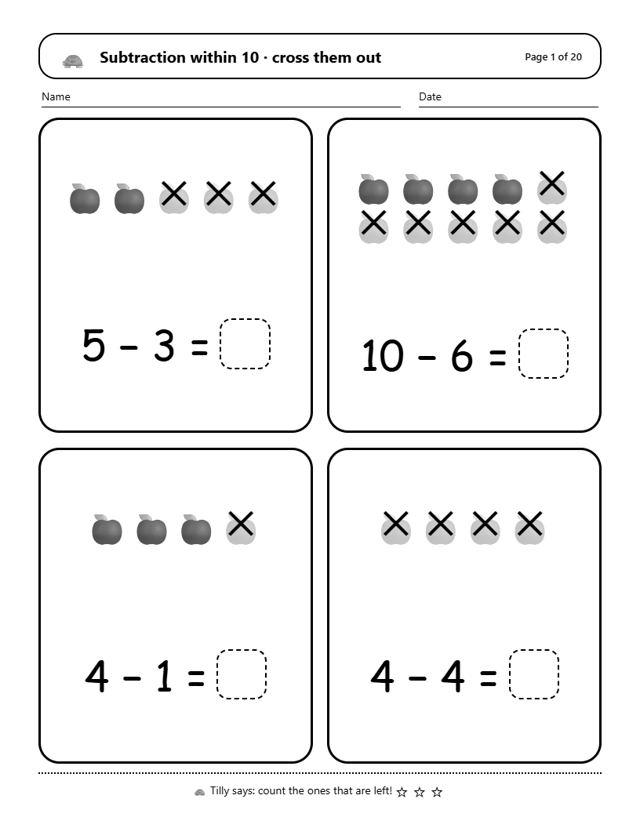
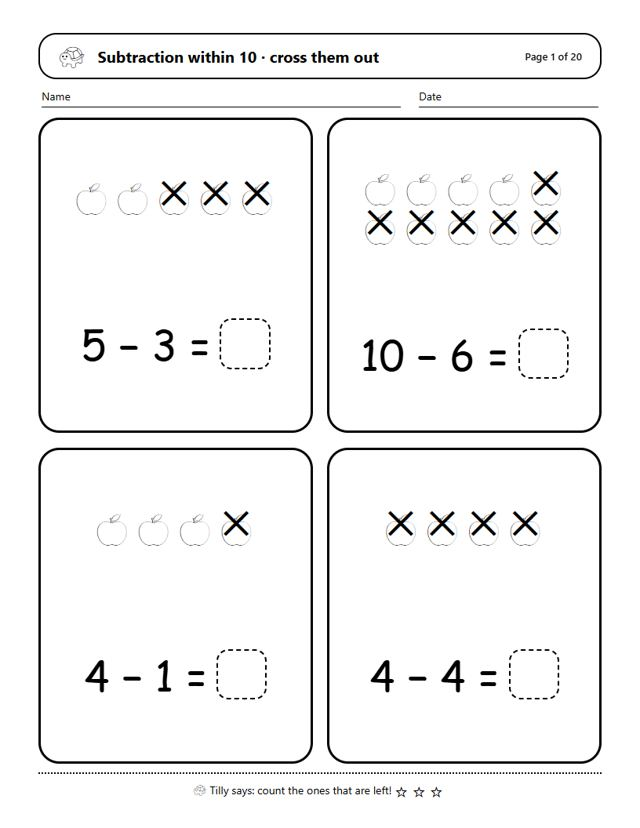
Black-and-white editions now use outline pictures; sampler included

diff --git a/free-decodable-reading-sampler/index.html b/free-decodable-reading-sampler/index.html
@@ -38,13 +38,13 @@ footer{padding:26px 0 40px;text-align:center;color:var(--soft);font-size:15px}
 @media (max-width:560px){.buy,.buy:link,.buy:visited{font-size:20px;padding:14px 18px 14px 24px}.price{right:-2px}}</style></head><body>
 <nav><div class="wrap"><a class="logo" href="../"><span class="word"><span style="color:#e0527a">S</span><span style="color:#ef8a2b">o</span><span style="color:#f2b705">u</span><span style="color:#2f9e63">n</span><span style="color:#2f80d0">d</span></span> <span class="word"><span style="color:#e0527a">I</span><span style="color:#ef8a2b">t</span></span> <span class="word"><span style="color:#2f9e63">O</span><span style="color:#2f80d0">u</span><span style="color:#8a5cd0">t</span></span></a><a href="../#printables">All printables</a><a href="../free-decodable-reading-sampler/">Free sampler</a></div></nav>
 <header class="hero"><div class="wrap cols"><div class="txt"><h1><span class="word"><span style="color:#e0527a">F</span><span style="color:#ef8a2b">r</span><span style="color:#f2b705">e</span><span style="color:#2f9e63">e</span></span> <span class="word"><span style="color:#8a5cd0">D</span><span style="color:#e0527a">e</span><span style="color:#ef8a2b">c</span><span style="color:#f2b705">o</span><span style="color:#2f9e63">d</span><span style="color:#2f80d0">a</span><span style="color:#8a5cd0">b</span><span style="color:#e0527a">l</span><span style="color:#ef8a2b">e</span></span> <span class="word"><span style="color:#2f9e63">R</span><span style="color:#2f80d0">e</span><span style="color:#8a5cd0">a</span><span style="color:#e0527a">d</span><span style="color:#ef8a2b">i</span><span style="color:#f2b705">n</span><span style="color:#2f9e63">g</span></span> <span class="word"><span style="color:#8a5cd0">S</span><span style="color:#e0527a">a</span><span style="color:#ef8a2b">m</span><span style="color:#f2b705">p</span><span style="color:#2f9e63">l</span><span style="color:#2f80d0">e</span><span style="color:#8a5cd0">r</span></span></h1><p class="tag">Free printable CVC words, sentences and stories</p><p class="lead">The whole first step of learning to read, free: words, word chains, sentences, stories and two reading passages with questions. Every word uses only the sounds s a t p i n m d.</p><a class="buy" href="https://julianspark478.gumroad.com/l/sound-it-out-free">Download free <b>FREE</b></a>
-<ul class="ticks"><li>9 printable pages</li><li>PDF, US Letter and A4</li><li>Ages 4 to 6 · Kindergarten</li><li>Print as often as you like</li></ul></div>
+<ul class="ticks"><li>9 printable pages</li><li>Colour and black-and-white PDFs, US Letter and A4</li><li>Ages 4 to 6 · Kindergarten</li><li>Print as often as you like</li></ul></div>
 <div class="shot"><img src="../img/free-decodable-reading-sampler-2.jpg" alt="Free Decodable Reading Sampler sample page" width="560" height="725"></div></div></header>
 <section><div class="wrap"><div class="bubble"><p class="big">Does your child know a few letter sounds, but get stuck on “easy” books?</p><p>Most beginner books slip in words a child has not been taught to sound out, so the child guesses. These pages only use eight letter-sounds, s a t p i n m d, plus the word “the”. Your child can read every word.</p><div class="sounds" aria-label="d, u, ck makes duck"><span style="background:#2f80d0">d</span><span style="background:#ef8a2b">u</span><span style="background:#8a5cd0">ck</span><i>→</i><em>duck</em></div></div></div></section>
 <section style="padding-top:0"><div class="wrap"><h2>What you get</h2><ul class="get"><li style="background:#fff3c4;border-color:#f2b705">A one-page guide for the grown-up</li><li style="background:#dff3ff;border-color:#2f9e63">Listening games and CVC word cards</li><li style="background:#e4f7e4;border-color:#2f80d0">Word chains and phrases</li><li style="background:#ffe3ee;border-color:#8a5cd0">10 decodable sentences</li><li style="background:#efe7fb;border-color:#e0527a">Two short stories to read and draw</li><li style="background:#ffe9d2;border-color:#ef8a2b">Two reading passages with tick-or-cross questions</li></ul></div></section>
-<section class="band"><div class="wrap"><h2>Look inside</h2><div class="gal"><img src="../img/free-decodable-reading-sampler-1.jpg" alt="Free Decodable Reading Sampler: sample page 1" width="560" height="725"><img src="../img/free-decodable-reading-sampler-2.jpg" alt="Free Decodable Reading Sampler: sample page 2" width="560" height="725"><img src="../img/free-decodable-reading-sampler-3.jpg" alt="Free Decodable Reading Sampler: sample page 3" width="560" height="725"><img src="../img/free-decodable-reading-sampler-4.jpg" alt="Free Decodable Reading Sampler: sample page 4" width="560" height="725"></div></div></section>
+<section class="band"><div class="wrap"><h2>Look inside</h2><p style="text-align:center;margin:-14px 0 24px;font-weight:700">Every page comes in full colour and in black and white with outline pictures to colour in.</p><div class="gal"><img src="../img/free-decodable-reading-sampler-1.jpg" alt="Free Decodable Reading Sampler: sample page 1" width="560" height="725"><img src="../img/free-decodable-reading-sampler-2.jpg" alt="Free Decodable Reading Sampler: sample page 2" width="560" height="725"><img src="../img/free-decodable-reading-sampler-3.jpg" alt="Free Decodable Reading Sampler: sample page 3" width="560" height="725"><img src="../img/free-decodable-reading-sampler-4.jpg" alt="Free Decodable Reading Sampler: sample page 4" width="560" height="725"></div></div></section>
 <section><div class="wrap"><div class="who"><h2>Who it is for</h2>Children who are just starting to blend sounds into words, usually ages 4 to 6. Good for parents, tutors and teachers who want to try decodable reading before buying anything.</div></div></section>
-<section class="band"><div class="wrap"><h2>Good questions</h2><details><summary>Is it really free?</summary><p>Yes. On the download page the price is $0. You can type 0 and download it.</p></details><details><summary>What comes after this?</summary><p>The two full books carry on through five more steps of sounds: Sound It Out (words, sentences and stories) and Read It, Get It (24 passages with questions).</p></details><details><summary>What exactly do I download?</summary><p>Two PDF files of the same 9 pages: one sized for US Letter paper and one for A4.</p></details><details><summary>How do I get it?</summary><p>The button takes you to our Gumroad download page. The files are yours straight away.</p></details><details><summary>Can I use it with my class?</summary><p>Yes. Print as often as you like for your own children or your own class.</p></details></div></section>
+<section class="band"><div class="wrap"><h2>Good questions</h2><details><summary>Is it really free?</summary><p>Yes. On the download page the price is $0. You can type 0 and download it.</p></details><details><summary>What comes after this?</summary><p>The two full books carry on through five more steps of sounds: Sound It Out (words, sentences and stories) and Read It, Get It (24 passages with questions).</p></details><details><summary>What exactly do I download?</summary><p>The same 9 pages as PDF files in full colour and in ink-saving black and white, each sized for US Letter paper and for A4. Print whichever suits you.</p></details><details><summary>How do I get it?</summary><p>The button takes you to our Gumroad download page. The files are yours straight away.</p></details><details><summary>Can I use it with my class?</summary><p>Yes. Print as often as you like for your own children or your own class.</p></details></div></section>
 <section class="final"><div class="wrap"><h2>Print it today, free</h2><a class="buy" href="https://julianspark478.gumroad.com/l/sound-it-out-free">Download free <b>FREE</b></a></div></section>
 <section><div class="wrap"><h2>More printables</h2><div class="grid"><a class="card" href="../sound-it-out-decodable-phonics-practice/" style="background:#dff3ff;border-color:#2f80d0"><span class="price" style="background:#2f80d0">$5</span>
 <img src="../img/sound-it-out-decodable-phonics-practice-2.jpg" alt="Sample page from Sound It Out" width="560" height="725"><h3>Sound It Out</h3><small>27 pages · Ages 4 to 7</small><p>Decodable phonics reading practice: words, sentences and stories.</p><span class="go" style="background:#2f80d0">See inside</span></a>

diff --git a/sound-it-out-decodable-phonics-practice/index.html b/sound-it-out-decodable-phonics-practice/index.html
@@ -42,7 +42,7 @@ footer{padding:26px 0 40px;text-align:center;color:var(--soft);font-size:15px}
 <div class="shot"><img src="../img/sound-it-out-decodable-phonics-practice-2.jpg" alt="Sound It Out sample page" width="560" height="725"></div></div></header>
 <section><div class="wrap"><div class="bubble"><p class="big">Most beginner sentences cheat.</p><p>“The duck is in the pond” looks simple. But a child who has not been taught that <b>ck</b> is one sound cannot read “duck”. That child can only guess, and every guess teaches a child that reading is guessing. In this book nothing sneaks in.</p><div class="sounds" aria-label="d, u, ck makes duck"><span style="background:#2f80d0">d</span><span style="background:#ef8a2b">u</span><span style="background:#8a5cd0">ck</span><i>→</i><em>duck</em></div></div></div></section>
 <section style="padding-top:0"><div class="wrap"><h2>What you get</h2><ul class="get"><li style="background:#fff3c4;border-color:#f2b705">Listening games: you say the sounds, your child says the word</li><li style="background:#dff3ff;border-color:#2f9e63">Word cards with the sounds marked under each word</li><li style="background:#e4f7e4;border-color:#2f80d0">Word chains: tin, pin, pit, sit</li><li style="background:#ffe3ee;border-color:#8a5cd0">Phrases and 10 sentences for every step</li><li style="background:#efe7fb;border-color:#e0527a">12 short stories with questions and a box to draw</li><li style="background:#ffe9d2;border-color:#ef8a2b">A reading ladder star chart and a guide for you</li></ul></div></section>
-<section class="band"><div class="wrap"><h2>Look inside</h2><p style="text-align:center;margin:-14px 0 24px;font-weight:700">Every page comes in full colour and in ink-saving black and white.</p><div class="gal"><img src="../img/sound-it-out-decodable-phonics-practice-1.jpg" alt="Sound It Out: sample page 1" width="560" height="725"><img src="../img/sound-it-out-decodable-phonics-practice-2.jpg" alt="Sound It Out: sample page 2" width="560" height="725"><img src="../img/sound-it-out-decodable-phonics-practice-3.jpg" alt="Sound It Out: sample page 3" width="560" height="725"><img src="../img/sound-it-out-decodable-phonics-practice-4.jpg" alt="Sound It Out: sample page 4" width="560" height="725"></div></div></section>
+<section class="band"><div class="wrap"><h2>Look inside</h2><p style="text-align:center;margin:-14px 0 24px;font-weight:700">Every page comes in full colour and in black and white with outline pictures to colour in.</p><div class="gal"><img src="../img/sound-it-out-decodable-phonics-practice-1.jpg" alt="Sound It Out: sample page 1" width="560" height="725"><img src="../img/sound-it-out-decodable-phonics-practice-2.jpg" alt="Sound It Out: sample page 2" width="560" height="725"><img src="../img/sound-it-out-decodable-phonics-practice-3.jpg" alt="Sound It Out: sample page 3" width="560" height="725"><img src="../img/sound-it-out-decodable-phonics-practice-4.jpg" alt="Sound It Out: sample page 4" width="560" height="725"></div></div></section>
 <section><div class="wrap"><div class="who"><h2>Who it is for</h2>Parents, tutors and teachers of children who are starting to blend sounds, usually ages 4 to 7, and older children who need to go back and build the skill properly.</div></div></section>
 <section class="band"><div class="wrap"><h2>Good questions</h2><details><summary>Why are there no pictures beside the words?</summary><p>A picture of a dog next to “dog” lets a child guess from the picture. Here your child reads first and draws the story afterwards.</p></details><details><summary>Which phonics order does it follow?</summary><p>It starts with s a t p i n m d and adds a few sounds at each step: g o c k, then ck e u r, then h b f ff l ll ss, then j v w x, then y z zz qu. Find the last step where your child knows every sound and start there.</p></details><details><summary>What exactly do I download?</summary><p>The same 27 pages as PDF files in full colour and in ink-saving black and white, each sized for US Letter paper and for A4. Print whichever suits you.</p></details><details><summary>How do I get it?</summary><p>The button takes you to a secure checkout run by Gumroad. As soon as you pay you can download the files, and a link is emailed to you as well.</p></details><details><summary>Can I use it with my class?</summary><p>Yes. Print as often as you like for your own children or your own class.</p></details></div></section>
 <section class="final"><div class="wrap"><h2>Print it today</h2><a class="buy" href="https://julianspark478.gumroad.com/l/iajzf?wanted=true">Buy and download <b>$5</b></a><p>Not sure yet? <a href="../free-decodable-reading-sampler/">Try the free 9-page sampler first</a></p></div></section>

diff --git a/decodable-reading-passages-with-questions/index.html b/decodable-reading-passages-with-questions/index.html
@@ -42,7 +42,7 @@ footer{padding:26px 0 40px;text-align:center;color:var(--soft);font-size:15px}
 <div class="shot"><img src="../img/decodable-reading-passages-with-questions-2.jpg" alt="Read It, Get It sample page" width="560" height="725"></div></div></header>
 <section><div class="wrap"><div class="bubble"><p class="big">Can your child sound out words, but freeze at a real story?</p><p>Most “easy” passages are not easy. They slip in words a beginner has not been taught to read, so the child guesses. These 24 one-page stories only use sounds your child already knows, plus one sight word: “the”.</p><div class="sounds" aria-label="d, u, ck makes duck"><span style="background:#2f80d0">d</span><span style="background:#ef8a2b">u</span><span style="background:#8a5cd0">ck</span><i>→</i><em>duck</em></div></div></div></section>
 <section style="padding-top:0"><div class="wrap"><h2>What you get</h2><ul class="get"><li style="background:#fff3c4;border-color:#f2b705">24 one-page decodable passages, four for each step</li><li style="background:#dff3ff;border-color:#2f9e63">A read-it-three-times star tracker on every page</li><li style="background:#e4f7e4;border-color:#2f80d0">Three tick-or-cross questions per passage, decodable too</li><li style="background:#ffe3ee;border-color:#8a5cd0">Two talk-about-it questions for you to read aloud</li><li style="background:#efe7fb;border-color:#e0527a">A box to draw the story</li><li style="background:#ffe9d2;border-color:#ef8a2b">An answer key and reading record</li></ul></div></section>
-<section class="band"><div class="wrap"><h2>Look inside</h2><p style="text-align:center;margin:-14px 0 24px;font-weight:700">Every page comes in full colour and in ink-saving black and white.</p><div class="gal"><img src="../img/decodable-reading-passages-with-questions-1.jpg" alt="Read It, Get It: sample page 1" width="560" height="725"><img src="../img/decodable-reading-passages-with-questions-2.jpg" alt="Read It, Get It: sample page 2" width="560" height="725"><img src="../img/decodable-reading-passages-with-questions-3.jpg" alt="Read It, Get It: sample page 3" width="560" height="725"><img src="../img/decodable-reading-passages-with-questions-4.jpg" alt="Read It, Get It: sample page 4" width="560" height="725"></div></div></section>
+<section class="band"><div class="wrap"><h2>Look inside</h2><p style="text-align:center;margin:-14px 0 24px;font-weight:700">Every page comes in full colour and in black and white with outline pictures to colour in.</p><div class="gal"><img src="../img/decodable-reading-passages-with-questions-1.jpg" alt="Read It, Get It: sample page 1" width="560" height="725"><img src="../img/decodable-reading-passages-with-questions-2.jpg" alt="Read It, Get It: sample page 2" width="560" height="725"><img src="../img/decodable-reading-passages-with-questions-3.jpg" alt="Read It, Get It: sample page 3" width="560" height="725"><img src="../img/decodable-reading-passages-with-questions-4.jpg" alt="Read It, Get It: sample page 4" width="560" height="725"></div></div></section>
 <section><div class="wrap"><div class="who"><h2>Who it is for</h2>Kindergarten and first grade readers, usually ages 4 to 7, and older children who need to go back and build blending properly. Works well for home, small groups, homework and reading intervention.</div></div></section>
 <section class="band"><div class="wrap"><h2>Good questions</h2><details><summary>Why are there no pictures beside the story?</summary><p>A picture lets a child guess the words. Here your child reads first and draws afterwards.</p></details><details><summary>How do the passages get harder?</summary><p>Four passages for each step of sounds, from s a t p i n m d up to y z zz qu. The stories get a little longer as the sounds grow.</p></details><details><summary>What exactly do I download?</summary><p>The same 27 pages as PDF files in full colour and in ink-saving black and white, each sized for US Letter paper and for A4. Print whichever suits you.</p></details><details><summary>How do I get it?</summary><p>The button takes you to a secure checkout run by Gumroad. As soon as you pay you can download the files, and a link is emailed to you as well.</p></details><details><summary>Can I use it with my class?</summary><p>Yes. Print as often as you like for your own children or your own class.</p></details></div></section>
 <section class="final"><div class="wrap"><h2>Print it today</h2><a class="buy" href="https://julianspark478.gumroad.com/l/jybjvj?wanted=true">Buy and download <b>$5</b></a><p>Not sure yet? <a href="../free-decodable-reading-sampler/">Try the free 9-page sampler first</a></p></div></section>

diff --git a/number-tracing-and-counting-1-to-20/index.html b/number-tracing-and-counting-1-to-20/index.html
@@ -42,7 +42,7 @@ footer{padding:26px 0 40px;text-align:center;color:var(--soft);font-size:15px}
 <div class="shot"><img src="../img/number-tracing-and-counting-1-to-20-2.jpg" alt="Numbers 1 to 20 sample page" width="560" height="725"></div></div></header>
 <section><div class="wrap"><div class="bubble"><p class="big">Counting to 20 is more than saying the words.</p><p>A child needs to see how many a number is, not just recite it. Every page shows the number on a ten frame, gives real things to count, then moves to tracing, writing and finding the missing number.</p></div></div></section>
 <section style="padding-top:0"><div class="wrap"><h2>What you get</h2><ul class="get"><li style="background:#fff3c4;border-color:#f2b705">20 number pages, 1 to 20</li><li style="background:#dff3ff;border-color:#2f9e63">The number, its word and a ten frame</li><li style="background:#e4f7e4;border-color:#2f80d0">Things to count on every page</li><li style="background:#ffe3ee;border-color:#8a5cd0">Trace the number, then write your own</li><li style="background:#efe7fb;border-color:#e0527a">A missing-number row on every page</li><li style="background:#ffe9d2;border-color:#ef8a2b">A guide for the grown-up</li></ul></div></section>
-<section class="band"><div class="wrap"><h2>Look inside</h2><p style="text-align:center;margin:-14px 0 24px;font-weight:700">Every page comes in full colour and in ink-saving black and white.</p><div class="gal"><img src="../img/number-tracing-and-counting-1-to-20-1.jpg" alt="Numbers 1 to 20: sample page 1" width="560" height="725"><img src="../img/number-tracing-and-counting-1-to-20-2.jpg" alt="Numbers 1 to 20: sample page 2" width="560" height="725"><img src="../img/number-tracing-and-counting-1-to-20-3.jpg" alt="Numbers 1 to 20: sample page 3" width="560" height="725"><img src="../img/number-tracing-and-counting-1-to-20-4.jpg" alt="Numbers 1 to 20: sample page 4" width="560" height="725"></div></div></section>
+<section class="band"><div class="wrap"><h2>Look inside</h2><p style="text-align:center;margin:-14px 0 24px;font-weight:700">Every page comes in full colour and in black and white with outline pictures to colour in.</p><div class="gal"><img src="../img/number-tracing-and-counting-1-to-20-1.jpg" alt="Numbers 1 to 20: sample page 1" width="560" height="725"><img src="../img/number-tracing-and-counting-1-to-20-2.jpg" alt="Numbers 1 to 20: sample page 2" width="560" height="725"><img src="../img/number-tracing-and-counting-1-to-20-3.jpg" alt="Numbers 1 to 20: sample page 3" width="560" height="725"><img src="../img/number-tracing-and-counting-1-to-20-4.jpg" alt="Numbers 1 to 20: sample page 4" width="560" height="725"></div></div></section>
 <section><div class="wrap"><div class="who"><h2>Who it is for</h2>Preschool, pre-K and kindergarten children who are learning to count and write numbers, usually ages 3 to 6. Good for home, homeschool, morning work and maths centres.</div></div></section>
 <section class="band"><div class="wrap"><h2>Good questions</h2><details><summary>What is a ten frame?</summary><p>A grid of ten boxes with dots in it. It helps a child see a number as “five and some more” or “ten and some more”, which makes adding easier later.</p></details><details><summary>Do I have to do the numbers in order?</summary><p>No. Print the numbers your child needs most, and print a page again for extra practice.</p></details><details><summary>What exactly do I download?</summary><p>The same 22 pages as PDF files in full colour and in ink-saving black and white, each sized for US Letter paper and for A4. Print whichever suits you.</p></details><details><summary>How do I get it?</summary><p>The button takes you to a secure checkout run by Gumroad. As soon as you pay you can download the files, and a link is emailed to you as well.</p></details><details><summary>Can I use it with my class?</summary><p>Yes. Print as often as you like for your own children or your own class.</p></details></div></section>
 <section class="final"><div class="wrap"><h2>Print it today</h2><a class="buy" href="https://julianspark478.gumroad.com/l/ykzwrt?wanted=true">Buy and download <b>$4</b></a><p>Not sure yet? <a href="../free-decodable-reading-sampler/">Try the free 9-page sampler first</a></p></div></section>

diff --git a/alphabet-tracing-worksheets/index.html b/alphabet-tracing-worksheets/index.html
@@ -42,7 +42,7 @@ footer{padding:26px 0 40px;text-align:center;color:var(--soft);font-size:15px}
 <div class="shot"><img src="../img/alphabet-tracing-worksheets-2.jpg" alt="Alphabet Tracing sample page" width="560" height="725"></div></div></header>
 <section><div class="wrap"><div class="bubble"><p class="big">Learning letters should feel like play.</p><p>Plain rows of dotted letters get boring fast. Each page here does four small jobs in bright colours: trace the big letter, trace the small one, write your own, then hunt for the letter in a row. Two pictures tie the letter to its sound.</p></div></div></section>
 <section style="padding-top:0"><div class="wrap"><h2>What you get</h2><ul class="get"><li style="background:#fff3c4;border-color:#f2b705">26 letter pages, A to Z</li><li style="background:#dff3ff;border-color:#2f9e63">Trace the big letter and the small letter</li><li style="background:#e4f7e4;border-color:#2f80d0">Write your own in the dotted boxes</li><li style="background:#ffe3ee;border-color:#8a5cd0">A circle-the-letter row on every page</li><li style="background:#efe7fb;border-color:#e0527a">Two beginning-sound pictures per letter</li><li style="background:#ffe9d2;border-color:#ef8a2b">A guide for the grown-up</li></ul></div></section>
-<section class="band"><div class="wrap"><h2>Look inside</h2><p style="text-align:center;margin:-14px 0 24px;font-weight:700">Every page comes in full colour and in ink-saving black and white.</p><div class="gal"><img src="../img/alphabet-tracing-worksheets-1.jpg" alt="Alphabet Tracing: sample page 1" width="560" height="725"><img src="../img/alphabet-tracing-worksheets-2.jpg" alt="Alphabet Tracing: sample page 2" width="560" height="725"><img src="../img/alphabet-tracing-worksheets-3.jpg" alt="Alphabet Tracing: sample page 3" width="560" height="725"><img src="../img/alphabet-tracing-worksheets-4.jpg" alt="Alphabet Tracing: sample page 4" width="560" height="725"></div></div></section>
+<section class="band"><div class="wrap"><h2>Look inside</h2><p style="text-align:center;margin:-14px 0 24px;font-weight:700">Every page comes in full colour and in black and white with outline pictures to colour in.</p><div class="gal"><img src="../img/alphabet-tracing-worksheets-1.jpg" alt="Alphabet Tracing: sample page 1" width="560" height="725"><img src="../img/alphabet-tracing-worksheets-2.jpg" alt="Alphabet Tracing: sample page 2" width="560" height="725"><img src="../img/alphabet-tracing-worksheets-3.jpg" alt="Alphabet Tracing: sample page 3" width="560" height="725"><img src="../img/alphabet-tracing-worksheets-4.jpg" alt="Alphabet Tracing: sample page 4" width="560" height="725"></div></div></section>
 <section><div class="wrap"><div class="who"><h2>Who it is for</h2>Preschool, pre-K and kindergarten children who are learning their letters, usually ages 3 to 6. Good for home, homeschool, morning work and literacy centres.</div></div></section>
 <section class="band"><div class="wrap"><h2>Good questions</h2><details><summary>Do I have to do the letters in order?</summary><p>No. Print the letter your child is learning this week, or the letters in their name first.</p></details><details><summary>What are the pictures for?</summary><p>Each letter has two pictures that start with its sound, such as apple and ant. For X, one picture is “fox”, because the sound is easier to hear at the end.</p></details><details><summary>What exactly do I download?</summary><p>The same 28 pages as PDF files in full colour and in ink-saving black and white, each sized for US Letter paper and for A4. Print whichever suits you.</p></details><details><summary>How do I get it?</summary><p>The button takes you to a secure checkout run by Gumroad. As soon as you pay you can download the files, and a link is emailed to you as well.</p></details><details><summary>Can I use it with my class?</summary><p>Yes. Print as often as you like for your own children or your own class.</p></details></div></section>
 <section class="final"><div class="wrap"><h2>Print it today</h2><a class="buy" href="https://julianspark478.gumroad.com/l/indgf?wanted=true">Buy and download <b>$4</b></a><p>Not sure yet? <a href="../free-decodable-reading-sampler/">Try the free 9-page sampler first</a></p></div></section>

diff --git a/subtraction-within-10-worksheets/index.html b/subtraction-within-10-worksheets/index.html
@@ -42,7 +42,7 @@ footer{padding:26px 0 40px;text-align:center;color:var(--soft);font-size:15px}
 <div class="shot"><img src="../img/subtraction-within-10-worksheets-2.jpg" alt="Subtraction to 10 sample page" width="560" height="725"></div></div></header>
 <section><div class="wrap"><div class="bubble"><p class="big">Taking away makes sense when you can see it.</p><p>On the first ten pages some of the pictures are crossed out, and your child counts what is left. Then come the number-only pages, with a number line at the top for hopping back.</p></div></div></section>
 <section style="padding-top:0"><div class="wrap"><h2>What you get</h2><ul class="get"><li style="background:#fff3c4;border-color:#f2b705">10 picture pages: cross them out</li><li style="background:#dff3ff;border-color:#2f9e63">10 number pages with a 0 to 10 number line</li><li style="background:#e4f7e4;border-color:#2f80d0">160 sums in total</li><li style="background:#ffe3ee;border-color:#8a5cd0">A two-page answer key</li><li style="background:#efe7fb;border-color:#e0527a">Stars to colour on every page</li><li style="background:#ffe9d2;border-color:#ef8a2b">A guide for the grown-up</li></ul></div></section>
-<section class="band"><div class="wrap"><h2>Look inside</h2><p style="text-align:center;margin:-14px 0 24px;font-weight:700">Every page comes in full colour and in ink-saving black and white.</p><div class="gal"><img src="../img/subtraction-within-10-worksheets-1.jpg" alt="Subtraction to 10: sample page 1" width="560" height="725"><img src="../img/subtraction-within-10-worksheets-2.jpg" alt="Subtraction to 10: sample page 2" width="560" height="725"><img src="../img/subtraction-within-10-worksheets-3.jpg" alt="Subtraction to 10: sample page 3" width="560" height="725"><img src="../img/subtraction-within-10-worksheets-4.jpg" alt="Subtraction to 10: sample page 4" width="560" height="725"></div></div></section>
+<section class="band"><div class="wrap"><h2>Look inside</h2><p style="text-align:center;margin:-14px 0 24px;font-weight:700">Every page comes in full colour and in black and white with outline pictures to colour in.</p><div class="gal"><img src="../img/subtraction-within-10-worksheets-1.jpg" alt="Subtraction to 10: sample page 1" width="560" height="725"><img src="../img/subtraction-within-10-worksheets-2.jpg" alt="Subtraction to 10: sample page 2" width="560" height="725"><img src="../img/subtraction-within-10-worksheets-3.jpg" alt="Subtraction to 10: sample page 3" width="560" height="725"><img src="../img/subtraction-within-10-worksheets-4.jpg" alt="Subtraction to 10: sample page 4" width="560" height="725"></div></div></section>
 <section><div class="wrap"><div class="who"><h2>Who it is for</h2>Kindergarten and first grade children who are starting subtraction, usually ages 5 to 7. Good for home, homeschool, morning work, maths centres and extra practice.</div></div></section>
 <section class="band"><div class="wrap"><h2>Good questions</h2><details><summary>Is there an answer key?</summary><p>Yes, two pages at the back, with every sum and its answer.</p></details><details><summary>How big do the numbers get?</summary><p>Every sum starts at 10 or less, so your child can always check by counting.</p></details><details><summary>What exactly do I download?</summary><p>The same 24 pages as PDF files in full colour and in ink-saving black and white, each sized for US Letter paper and for A4. Print whichever suits you.</p></details><details><summary>How do I get it?</summary><p>The button takes you to a secure checkout run by Gumroad. As soon as you pay you can download the files, and a link is emailed to you as well.</p></details><details><summary>Can I use it with my class?</summary><p>Yes. Print as often as you like for your own children or your own class.</p></details></div></section>
 <section class="final"><div class="wrap"><h2>Print it today</h2><a class="buy" href="https://julianspark478.gumroad.com/l/mnsilr?wanted=true">Buy and download <b>$4</b></a><p>Not sure yet? <a href="../free-decodable-reading-sampler/">Try the free 9-page sampler first</a></p></div></section>

diff --git a/addition-within-10-worksheets/index.html b/addition-within-10-worksheets/index.html
@@ -42,7 +42,7 @@ footer{padding:26px 0 40px;text-align:center;color:var(--soft);font-size:15px}
 <div class="shot"><img src="../img/addition-within-10-worksheets-2.jpg" alt="Addition to 10 sample page" width="560" height="725"></div></div></header>
 <section><div class="wrap"><div class="bubble"><p class="big">First sums go better with something to count.</p><p>A page of bare sums can feel like a wall. Here the first ten pages are pictures: count one group, count the other, count them all. Only then come the number-only pages, with a number line at the top to help.</p></div></div></section>
 <section style="padding-top:0"><div class="wrap"><h2>What you get</h2><ul class="get"><li style="background:#fff3c4;border-color:#f2b705">10 picture pages: count them all</li><li style="background:#dff3ff;border-color:#2f9e63">10 number pages with a 0 to 10 number line</li><li style="background:#e4f7e4;border-color:#2f80d0">160 sums in total</li><li style="background:#ffe3ee;border-color:#8a5cd0">A two-page answer key</li><li style="background:#efe7fb;border-color:#e0527a">Stars to colour on every page</li><li style="background:#ffe9d2;border-color:#ef8a2b">A guide for the grown-up</li></ul></div></section>
-<section class="band"><div class="wrap"><h2>Look inside</h2><p style="text-align:center;margin:-14px 0 24px;font-weight:700">Every page comes in full colour and in ink-saving black and white.</p><div class="gal"><img src="../img/addition-within-10-worksheets-1.jpg" alt="Addition to 10: sample page 1" width="560" height="725"><img src="../img/addition-within-10-worksheets-2.jpg" alt="Addition to 10: sample page 2" width="560" height="725"><img src="../img/addition-within-10-worksheets-3.jpg" alt="Addition to 10: sample page 3" width="560" height="725"><img src="../img/addition-within-10-worksheets-4.jpg" alt="Addition to 10: sample page 4" width="560" height="725"></div></div></section>
+<section class="band"><div class="wrap"><h2>Look inside</h2><p style="text-align:center;margin:-14px 0 24px;font-weight:700">Every page comes in full colour and in black and white with outline pictures to colour in.</p><div class="gal"><img src="../img/addition-within-10-worksheets-1.jpg" alt="Addition to 10: sample page 1" width="560" height="725"><img src="../img/addition-within-10-worksheets-2.jpg" alt="Addition to 10: sample page 2" width="560" height="725"><img src="../img/addition-within-10-worksheets-3.jpg" alt="Addition to 10: sample page 3" width="560" height="725"><img src="../img/addition-within-10-worksheets-4.jpg" alt="Addition to 10: sample page 4" width="560" height="725"></div></div></section>
 <section><div class="wrap"><div class="who"><h2>Who it is for</h2>Kindergarten and first grade children who are starting addition, usually ages 5 to 7. Good for home, homeschool, morning work, maths centres and extra practice.</div></div></section>
 <section class="band"><div class="wrap"><h2>Good questions</h2><details><summary>Is there an answer key?</summary><p>Yes, two pages at the back, with every sum and its answer.</p></details><details><summary>How big do the numbers get?</summary><p>Every answer is 10 or less, so your child can always check by counting.</p></details><details><summary>What exactly do I download?</summary><p>The same 24 pages as PDF files in full colour and in ink-saving black and white, each sized for US Letter paper and for A4. Print whichever suits you.</p></details><details><summary>How do I get it?</summary><p>The button takes you to a secure checkout run by Gumroad. As soon as you pay you can download the files, and a link is emailed to you as well.</p></details><details><summary>Can I use it with my class?</summary><p>Yes. Print as often as you like for your own children or your own class.</p></details></div></section>
 <section class="final"><div class="wrap"><h2>Print it today</h2><a class="buy" href="https://julianspark478.gumroad.com/l/pghki?wanted=true">Buy and download <b>$4</b></a><p>Not sure yet? <a href="../free-decodable-reading-sampler/">Try the free 9-page sampler first</a></p></div></section>
